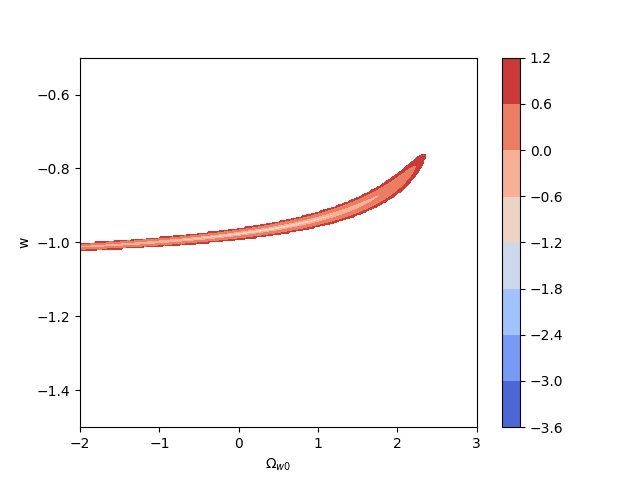
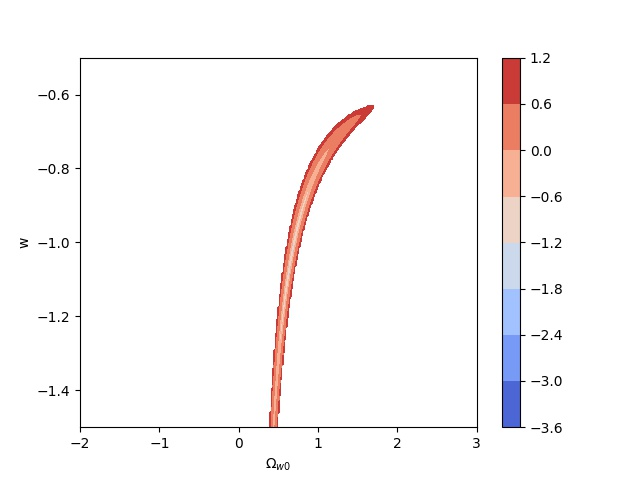
Fixed pesky bugs

Changed region(s): [[0.125, 0.2188, 0.6875, 0.9062]]

diff --git a/Project1/proj1_8.py b/Project1/proj1_8.py
@@ -1,0 +1,63 @@
+import matplotlib.pyplot as plt
+import numpy as np
+
+def U(x, om, ow, w):
+    return -(om/x + ow*x**(1+3*w))
+
+def E(x, om, ow):
+    return 1 - om - ow + x - x
+
+x = np.linspace(0,100,100001)
+
+omega_m = 0
+omega_w = 0.4
+w = -1
+
+omega_m2 = 0.3
+omega_w2 = 0.7
+w2 = -0.95
+
+omega_m3 = 0.05
+omega_w3 = 1.4
+w3 = -0.5
+
+
+if (E(x , omega_m2, omega_w2) < U(x, omega_m2, omega_w2, w)).any():
+    print("This combo is bad for E")
+else:
+    print("Is all good for E")
+
+#Case 1
+plt.plot(x,U(x, omega_m, omega_w, w), label = 'U')
+plt.plot(x, E(x, omega_m, omega_w), label = 'E')
+
+plt.xlabel("x")
+plt.ylabel("E and U [energy]")
+plt.legend()
+#plt.title(r"Case 1: w = {}, $\Omega_{m 0}$ = {}, $\Omega_{w 0}$ = {} ".format(w, omega_m, omega_w))
+plt.savefig("images/case1_8.jpeg")
+plt.show()
+
+
+
+#Case two
+plt.plot(x,U(x, omega_m2, omega_w2, w2), label = 'U')
+plt.plot(x, E(x, omega_m2, omega_w2), label = 'E')
+
+plt.xlabel("x")
+plt.ylabel("E and U [energy]")
+plt.legend()
+#plt.title(r"Case 2: w = {}, $\Omega_{m 0}$ = {}, $\Omega_{w 0}$ = {} ".format(w2, omega_m2, omega_w2))
+plt.savefig("images/case2_8.jpeg")
+plt.show()
+
+#Case 3
+plt.plot(x,U(x, omega_m3, omega_w3, w3), label = 'U')
+plt.plot(x, E(x, omega_m3, omega_w3), label = 'E')
+
+plt.xlabel("x")
+plt.ylabel("E and U [energy]")
+#plt.title(r"Case 3: w = {}, $\Omega_{m 0}$ = {}, $\Omega_{w 0}$ = {} ".format(w3, omega_m3, omega_w3))
+plt.savefig("images/case3_8.jpeg")
+plt.legend()
+plt.show()

diff --git a/Project1/proj1_7.py b/Project1/proj1_7.py
@@ -152,7 +152,7 @@ def run():
         for iow,om_w in enumerate(omega_wo):
             if bigbang_test(redshift, om_w, w_val) is True:
                 val = xi2(redshift, w_val, om_w)
-                xi2val[iow, iw] = val
+                xi2val[iw, iow] = val
 
 
             else:
